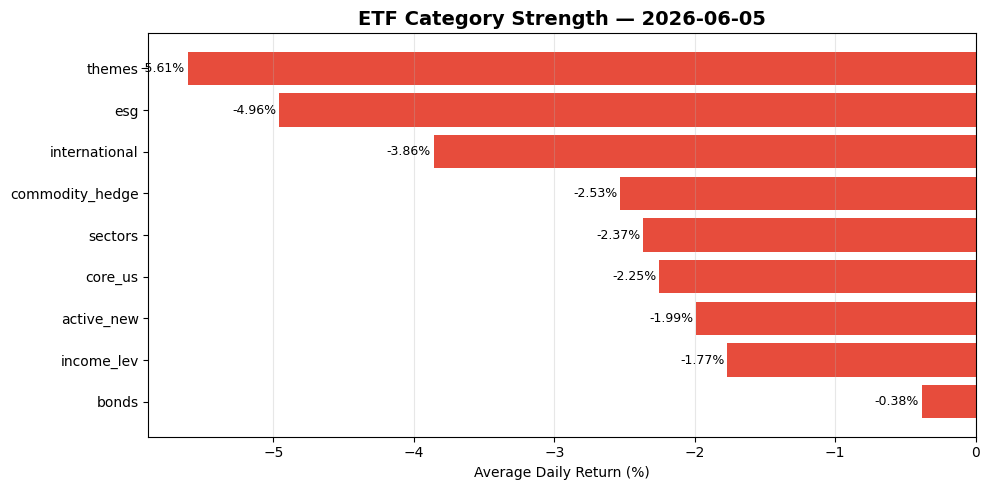
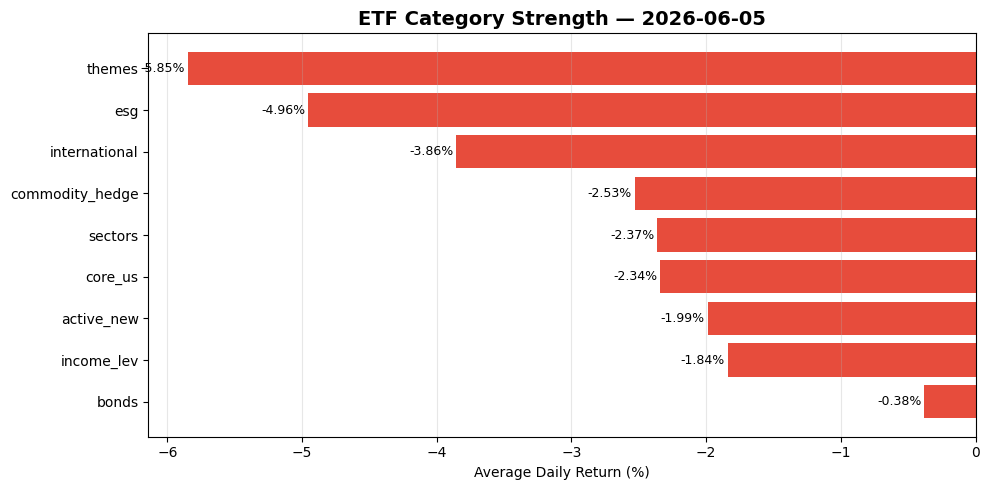
ETF Pulse daily update 2026-06-06

diff --git a/etf_pulse/content/pulse_2026-06-05.md b/etf_pulse/content/pulse_2026-06-05.md
@@ -5,25 +5,25 @@
 ## 🎯 어제 시장 분위기
 
 **강세 테마**: 채권 (평균 -0.38%)
-**약세 테마**: 테마 (평균 -5.61%)
+**약세 테마**: 테마 (평균 -5.85%)
 
 전체 카테고리별:
-- 🔴 채권: -0.38% (거래량 spike 1.27x, 32개)
-- 🔴 인컴/레버리지: -1.77% (거래량 spike 1.45x, 35개)
+- 🔴 채권: -0.38% (거래량 spike 1.29x, 32개)
+- 🔴 인컴/레버리지: -1.84% (거래량 spike 1.48x, 35개)
 - 🔴 active_new: -1.99% (거래량 spike 1.08x, 15개)
-- 🔴 미국 코어 지수: -2.25% (거래량 spike 1.29x, 33개)
-- 🔴 섹터: -2.37% (거래량 spike 1.61x, 51개)
-- 🔴 원자재/헷지: -2.53% (거래량 spike 1.16x, 21개)
-- 🔴 국제/신흥국: -3.86% (거래량 spike 1.30x, 28개)
-- 🔴 esg: -4.96% (거래량 spike 1.07x, 8개)
-- 🔴 테마: -5.61% (거래량 spike 1.47x, 33개)
+- 🔴 미국 코어 지수: -2.34% (거래량 spike 1.33x, 33개)
+- 🔴 섹터: -2.37% (거래량 spike 1.64x, 51개)
+- 🔴 원자재/헷지: -2.53% (거래량 spike 1.17x, 21개)
+- 🔴 국제/신흥국: -3.86% (거래량 spike 1.31x, 28개)
+- 🔴 esg: -4.96% (거래량 spike 1.09x, 8개)
+- 🔴 테마: -5.85% (거래량 spike 1.54x, 33개)
 
 ## 📈 어제 수익률 Top 5
 
-- **SOXS**: +31.54% 거래량 2.8x 폭증 (AUM $1.8B)
-- **SQQQ**: +14.38% 거래량 1.8x 폭증 (AUM $2.2B)
-- **MSTZ (MSTR 2X 인버스)**: +13.06% 거래량 1.6x 폭증 (AUM $0.1B)
-- **TZA**: +10.59% (AUM $0.2B)
+- **SOXS**: +31.54% 거래량 2.9x 폭증 (AUM $1.8B)
+- **SQQQ**: +14.38% 거래량 1.9x 폭증 (AUM $2.2B)
+- **MSTZ (MSTR 2X 인버스)**: +13.06% 거래량 1.7x 폭증 (AUM $0.1B)
+- **TZA**: +10.59% 거래량 1.5x 폭증 (AUM $0.2B)
 - **SPXU**: +7.91% (AUM $0.5B)
 
 ## 📉 어제 수익률 Bottom 5
@@ -40,17 +40,17 @@
 
 - **IYH**: 8.76x 폭증 (AUM $3.1B)
 - **BSV**: 8.27x 폭증 (AUM $70.4B)
-- **IYC**: 4.53x 폭증, 수익률 -0.98% (AUM $1.2B)
-- **IYM**: 3.98x 폭증, 수익률 -3.21% (AUM $1.4B)
-- **FBTC (비트코인 (Fidelity))**: 3.39x 폭증, 수익률 -5.08% (AUM $13.4B)
+- **IYC**: 4.54x 폭증, 수익률 -0.97% (AUM $1.2B)
+- **IYM**: 3.99x 폭증, 수익률 -3.21% (AUM $1.4B)
+- **FBTC (비트코인 (Fidelity))**: 3.41x 폭증, 수익률 -5.08% (AUM $13.4B)
 
 ## 🚀 5일 강한 모멘텀
 
 - **SQQQ**: 최근 5거래일 +13.42% (AUM $2.2B)
 - **SOXS**: 최근 5거래일 +8.06% (AUM $1.8B)
-- **IRBO**: 최근 5거래일 +5.01% (AUM $0.8B)
 - **VXX**: 최근 5거래일 +4.43% (AUM $0.5B)
 - **FAS**: 최근 5거래일 +3.75% (AUM $2.1B)
+- **USO**: 최근 5거래일 +3.04% (AUM $1.7B)
 
 ## 🏔 30일 신고가 갱신
 
@@ -71,17 +71,16 @@
 ## 💰 어제 자금 흐름 (AUM diff 기반)
 
 **유입**:
-- IRBO: +$16M (수익률 -2.02%)
-- NUSI: +$1M (수익률 -0.20%)
 - VTI: +$0M (수익률 -2.68%)
 - IVV (S&P 500): +$0M (수익률 -2.62%)
+- SCHD (배당 성장): +$0M (수익률 -0.89%)
 
 **유출**:
-- SPLG: $-329M (수익률 +0.34%)
 - QQQ (나스닥 100): $-0M (수익률 -4.80%)
 - VB: $-0M (수익률 -2.44%)
 - VWO: $-0M (수익률 -3.78%)
 - BNDX: $-0M (수익률 -0.15%)
+- IJH: $-0M (수익률 -2.00%)
 
 ## 🧠 자동 인사이트
 

diff --git a/etf_pulse/content/etf_eps_signal.md b/etf_pulse/content/etf_eps_signal.md
@@ -7,31 +7,31 @@
 
 | 순위 | ETF | 가중 adj_gap | 매칭률 | 핵심 종목 |
 |------|-----|--------------|--------|-----------|
-| 1 | **XOP** | -24.00 | 29% | DINO, SM, APA |
-| 2 | **VDE** | -15.34 | 62% | XOM, CVX, COP |
-| 3 | **IYE** | -14.99 | 69% | XOM, CVX, COP |
-| 4 | **XLE** | -14.93 | 75% | XOM, CVX, COP |
-| 5 | **NLR** | -8.86 | 26% | CEG, BWXT, PEG |
-| 6 | **CUT** | -7.95 | 31% | WY, PKG, AVY |
-| 7 | **GDX** | -7.37 | 11% | NEM |
-| 8 | **IDU** | -5.90 | 53% | NEE, SO, DUK |
-| 9 | **VPU** | -5.84 | 53% | NEE, SO, DUK |
-| 10 | **XLU** | -5.76 | 58% | NEE, SO, DUK |
+| 1 | **XOP** | -25.58 | 29% | DINO, SM, APA |
+| 2 | **VDE** | -16.16 | 62% | XOM, CVX, COP |
+| 3 | **IYE** | -15.86 | 69% | XOM, CVX, COP |
+| 4 | **XLE** | -15.83 | 75% | XOM, CVX, COP |
+| 5 | **GDX** | -12.32 | 11% | NEM |
+| 6 | **METU** | -10.65 | 18% | META |
+| 7 | **NLR** | -10.05 | 26% | CEG, BWXT, PEG |
+| 8 | **BOTZ** | -8.95 | 14% | NVDA, ISRG |
+| 9 | **CUT** | -7.38 | 31% | WY, PKG, AVY |
+| 10 | **VOX** | -7.10 | 69% | META, GOOGL, GOOG |
 
 ## 📈 고평가 ETF Top 10 (양수 큰 순)
 
 | 순위 | ETF | 가중 adj_gap | 매칭률 | 핵심 종목 |
 |------|-----|--------------|--------|-----------|
-| 1 | **XSD** | +94.56 | 34% | MXL, ALAB, AMD |
-| 2 | **MSTU** | +92.81 | 72% | MSTR |
-| 3 | **SOXX** | +46.74 | 62% | MU, AMD, AVGO |
-| 4 | **SOXL** | +40.05 | 23% | MU, AMD, AVGO |
-| 5 | **CIBR** | +39.33 | 63% | CRWD, PANW, FTNT |
-| 6 | **JETS** | +39.05 | 49% | DAL, AAL, UAL |
-| 7 | **TAN** | +34.56 | 34% | FSLR, NXT, ENPH |
-| 8 | **BITQ** | +34.44 | 20% | MSTR, COIN, CIFR |
-| 9 | **AIQ** | +33.85 | 31% | MU, AMD, INTC |
-| 10 | **SCHM** | +31.92 | 13% | SNDK, CIEN, BE |
+| 1 | **MSTU** | +77.09 | 72% | MSTR |
+| 2 | **XSD** | +60.28 | 34% | MXL, ALAB, AMD |
+| 3 | **JETS** | +37.74 | 49% | DAL, AAL, UAL |
+| 4 | **CIBR** | +30.07 | 63% | CRWD, PANW, FTNT |
+| 5 | **SOXX** | +23.20 | 62% | MU, AMD, AVGO |
+| 6 | **HACK** | +23.07 | 56% | CRWD, PANW, AVGO |
+| 7 | **BITQ** | +21.37 | 20% | MSTR, COIN, CIFR |
+| 8 | **TAN** | +19.01 | 30% | FSLR, NXT, ENPH |
+| 9 | **AIQ** | +16.24 | 31% | MU, AMD, INTC |
+| 10 | **SOXL** | +15.65 | 23% | MU, AMD, AVGO |
 
 ---
 _각 ETF 보유종목의 EPS revision 가중 평균. mean reversion 신호._

diff --git a/etf_pulse/content/pulse_2026-06-05_en.md b/etf_pulse/content/pulse_2026-06-05_en.md
@@ -5,24 +5,24 @@ US ETF market signals (228 ETFs by AUM).
 ## 🎯 Market Mood
 
 **Strong**: Bonds (avg -0.38%)
-**Weak**: Theme (avg -5.61%)
+**Weak**: Theme (avg -5.85%)
 
 - 🔴 Bonds: -0.38% (32 ETFs)
-- 🔴 Income / Leverage: -1.77% (35 ETFs)
+- 🔴 Income / Leverage: -1.84% (35 ETFs)
 - 🔴 active_new: -1.99% (15 ETFs)
-- 🔴 US Core Index: -2.25% (33 ETFs)
+- 🔴 US Core Index: -2.34% (33 ETFs)
 - 🔴 Sector: -2.37% (51 ETFs)
 - 🔴 Commodity / Hedge: -2.53% (21 ETFs)
 - 🔴 International / EM: -3.86% (28 ETFs)
 - 🔴 esg: -4.96% (8 ETFs)
-- 🔴 Theme: -5.61% (33 ETFs)
+- 🔴 Theme: -5.85% (33 ETFs)
 
 ## 📈 Top 5 Returns
 
-- **SOXS**: +31.54% (vol 2.8x) — AUM $1.8B
-- **SQQQ**: +14.38% (vol 1.8x) — AUM $2.2B
-- **MSTZ** (MSTR 2X Inverse): +13.06% (vol 1.6x) — AUM $0.1B
-- **TZA**: +10.59% — AUM $0.2B
+- **SOXS**: +31.54% (vol 2.9x) — AUM $1.8B
+- **SQQQ**: +14.38% (vol 1.9x) — AUM $2.2B
+- **MSTZ** (MSTR 2X Inverse): +13.06% (vol 1.7x) — AUM $0.1B
+- **TZA**: +10.59% (vol 1.5x) — AUM $0.2B
 - **SPXU**: +7.91% — AUM $0.5B
 
 ## 📉 Bottom 5 Returns
@@ -37,17 +37,17 @@ US ETF market signals (228 ETFs by AUM).
 
 - **IYH**: 8.76x
 - **BSV**: 8.27x
-- **IYC**: 4.53x (-0.98%)
-- **IYM**: 3.98x (-3.21%)
-- **FBTC** (Bitcoin (Fidelity)): 3.39x (-5.08%)
+- **IYC**: 4.54x (-0.97%)
+- **IYM**: 3.99x (-3.21%)
+- **FBTC** (Bitcoin (Fidelity)): 3.41x (-5.08%)
 
 ## 🚀 5-Day Momentum Top 5
 
 - **SQQQ**: +13.42% (5d)
 - **SOXS**: +8.06% (5d)
-- **IRBO**: +5.01% (5d)
 - **VXX**: +4.43% (5d)
 - **FAS**: +3.75% (5d)
+- **USO**: +3.04% (5d)
 
 ## 🏔 30-Day New Highs
 

diff --git a/etf_pulse/content/premium_daily_2026-06-05.md b/etf_pulse/content/premium_daily_2026-06-05.md
@@ -39,19 +39,19 @@
 
 ## 📈 어제 수익률 Top 5
 
-- **SOXS** (income_lev): +31.54% (vol 2.8x)
-- **SQQQ** (income_lev): +14.38% (vol 1.8x)
-- **MSTZ** (income_lev): +13.06% (vol 1.6x)
-- **TZA** (income_lev): +10.59%
+- **SOXS** (income_lev): +31.54% (vol 2.9x)
+- **SQQQ** (income_lev): +14.38% (vol 1.9x)
+- **MSTZ** (income_lev): +13.06% (vol 1.7x)
+- **TZA** (income_lev): +10.59% (vol 1.5x)
 - **SPXU** (income_lev): +7.91%
 
 ## 🚀 5일 모멘텀 Top 5
 
 - **SQQQ**: +13.42% (5d)
 - **SOXS**: +8.06% (5d)
-- **IRBO**: +5.01% (5d)
 - **VXX**: +4.43% (5d)
 - **FAS**: +3.75% (5d)
+- **USO**: +3.04% (5d)
 
 ## 🧠 자동 인사이트
 
@@ -78,11 +78,11 @@
 
 각 ETF 보유종목 EPS revision 가중 평균 (음수 = 저평가)
 
-- **XOP**: 가중 adj_gap -24.00 (매칭 29%, Top: DINO, SM, APA)
-- **VDE**: 가중 adj_gap -15.34 (매칭 62%, Top: XOM, CVX, COP)
-- **IYE**: 가중 adj_gap -14.99 (매칭 69%, Top: XOM, CVX, COP)
-- **XLE**: 가중 adj_gap -14.93 (매칭 75%, Top: XOM, CVX, COP)
-- **NLR**: 가중 adj_gap -8.86 (매칭 26%, Top: CEG, BWXT, PEG)
+- **XOP**: 가중 adj_gap -25.58 (매칭 29%, Top: DINO, SM, APA)
+- **VDE**: 가중 adj_gap -16.16 (매칭 62%, Top: XOM, CVX, COP)
+- **IYE**: 가중 adj_gap -15.86 (매칭 69%, Top: XOM, CVX, COP)
+- **XLE**: 가중 adj_gap -15.83 (매칭 75%, Top: XOM, CVX, COP)
+- **GDX**: 가중 adj_gap -12.32 (매칭 11%, Top: NEM)
 
 ━━━━━━━━━━━━━━━━━━━━━━━━━━━━━━━━━━━━━━━━━
 

diff --git a/etf_pulse/content/intent_best.md b/etf_pulse/content/intent_best.md
@@ -4,10 +4,10 @@
 
 ## S&P 500
 
-- 🏦 장기 holding (수수료/안정성): **SPLG** (점수 89, 가격 $89, AUM $97.3B)
+- 🏦 장기 holding (수수료/안정성): **SPLG** (점수 89, 가격 $87, AUM $97.3B)
 - ⚡ 단기 트레이딩 (거래량/유동성): **SPY** (점수 81, 가격 $738, AUM $783.8B)
-- 💰 배당 우선 (배당률/안정성): **SPLG** (점수 47, 가격 $89, AUM $97.3B)
-- 🐤 소액 적립 (낮은 가격): **SPLG** (점수 91, 가격 $89, AUM $97.3B)
+- 💰 배당 우선 (배당률/안정성): **SPLG** (점수 47, 가격 $87, AUM $97.3B)
+- 🐤 소액 적립 (낮은 가격): **SPLG** (점수 91, 가격 $87, AUM $97.3B)
 - 🚀 모멘텀 추종 (최근 5일): **SPY** (점수 59, 가격 $738, AUM $783.8B)
 
 ## Nasdaq 100
@@ -40,7 +40,7 @@
 - ⚡ 단기 트레이딩 (거래량/유동성): **AIQ** (점수 28, 가격 $63, AUM $10.9B)
 - 💰 배당 우선 (배당률/안정성): **AIQ** (점수 27, 가격 $63, AUM $10.9B)
 - 🐤 소액 적립 (낮은 가격): **AIQ** (점수 65, 가격 $63, AUM $10.9B)
-- 🚀 모멘텀 추종 (최근 5일): **IRBO** (점수 43, 가격 $78, AUM $0.8B)
+- 🚀 모멘텀 추종 (최근 5일): **AIQ** (점수 21, 가격 $63, AUM $10.9B)
 
 ## Dividend Growth
 

diff --git a/etf_pulse/content/tracking_error.md b/etf_pulse/content/tracking_error.md
@@ -7,10 +7,10 @@
 
 | Ticker | Tracking Error | 30일 누적 | 비고 |
 |--------|----------------|-----------|------|
-| SPY | 0.129% | +4.11% | 🥇 최저 |
-| VOO | 0.131% | +4.11% |  |
-| IVV | 0.137% | +4.11% |  |
-| SPLG | 0.396% | +7.04% |  |
+| VOO | 0.008% | +4.11% | 🥇 최저 |
+| SPY | 0.009% | +4.11% |  |
+| SPLG | 0.018% | +4.12% |  |
+| IVV | 0.021% | +4.11% |  |
 
 ## Nasdaq 100
 
@@ -56,10 +56,10 @@
 
 | Ticker | Tracking Error | 30일 누적 | 비고 |
 |--------|----------------|-----------|------|
-| ROBO | 0.635% | +6.24% | 🥇 최저 |
-| AIQ | 0.778% | +16.46% |  |
-| BOTZ | 0.856% | +4.11% |  |
-| IRBO | 1.177% | +25.35% |  |
+| AIQ | 0.586% | +16.46% | 🥇 최저 |
+| ROBO | 0.697% | +6.24% |  |
+| BOTZ | 0.953% | +4.11% |  |
+| IRBO | 1.172% | +17.47% |  |
 
 ## China
 

diff --git a/etf_pulse/content/health_check.md b/etf_pulse/content/health_check.md
@@ -1,4 +1,4 @@
-# 🏥 ETF Pulse Health Check — 2026-06-05 22:16
+# 🏥 ETF Pulse Health Check — 2026-06-06 22:06
 
 ## ℹ Info
 - 모든 항목 정상 (2026-06-05, 256 ETF)

diff --git a/etf_pulse/content/market_regime.md b/etf_pulse/content/market_regime.md
@@ -1,4 +1,4 @@
-# 🛡 Market Regime 진단 — 2026-06-05
+# 🛡 Market Regime 진단 — 2026-06-06
 
 ## 🔴 Risk-Off (방어 모드)
   - Risk-On 5일: -6.87%
